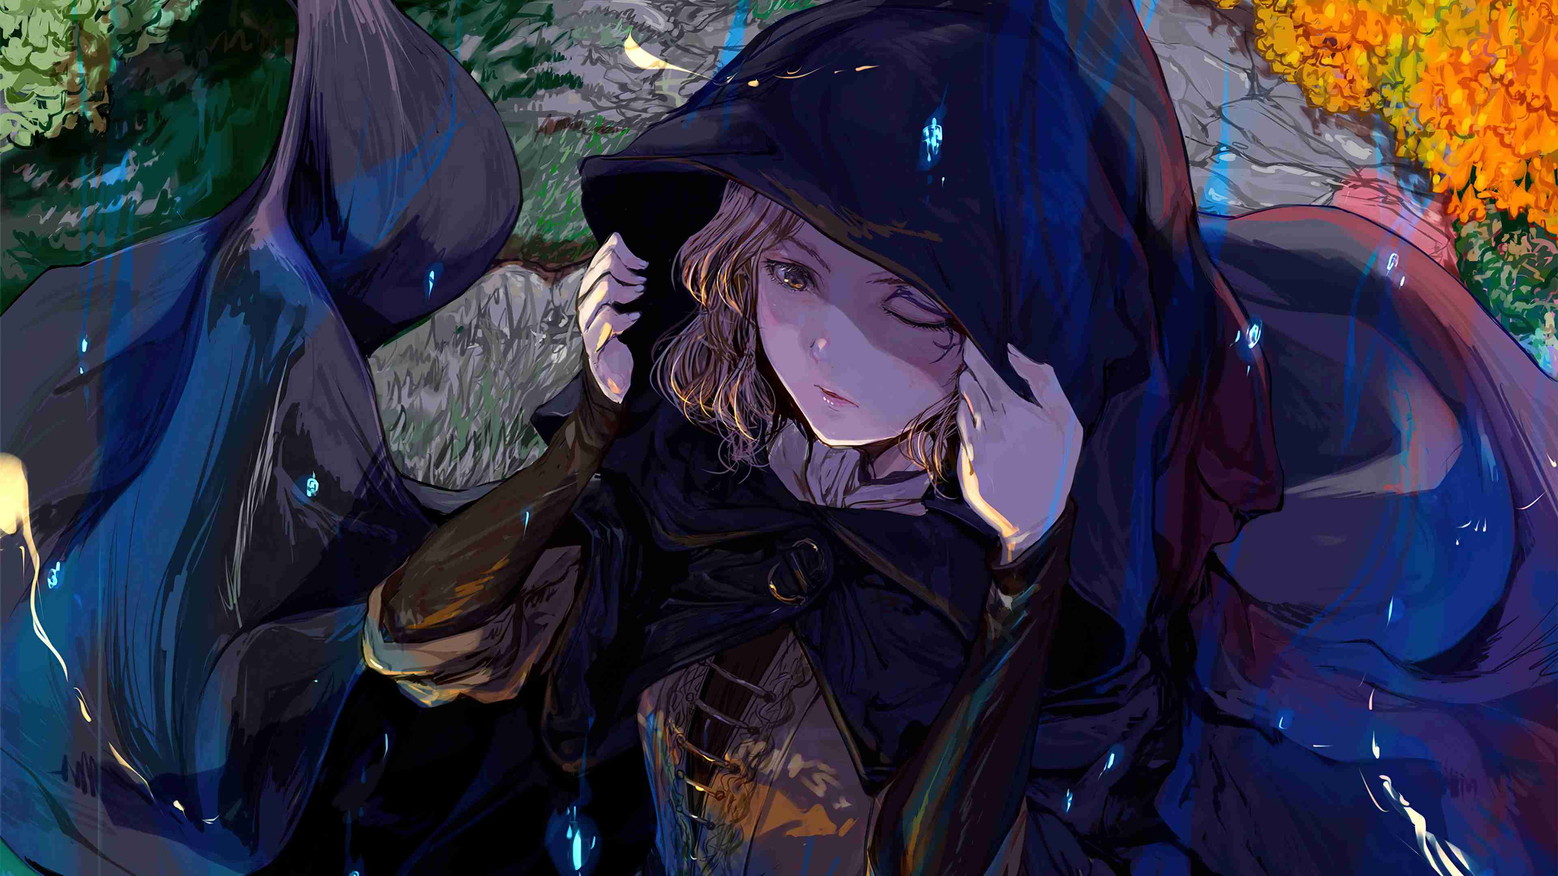
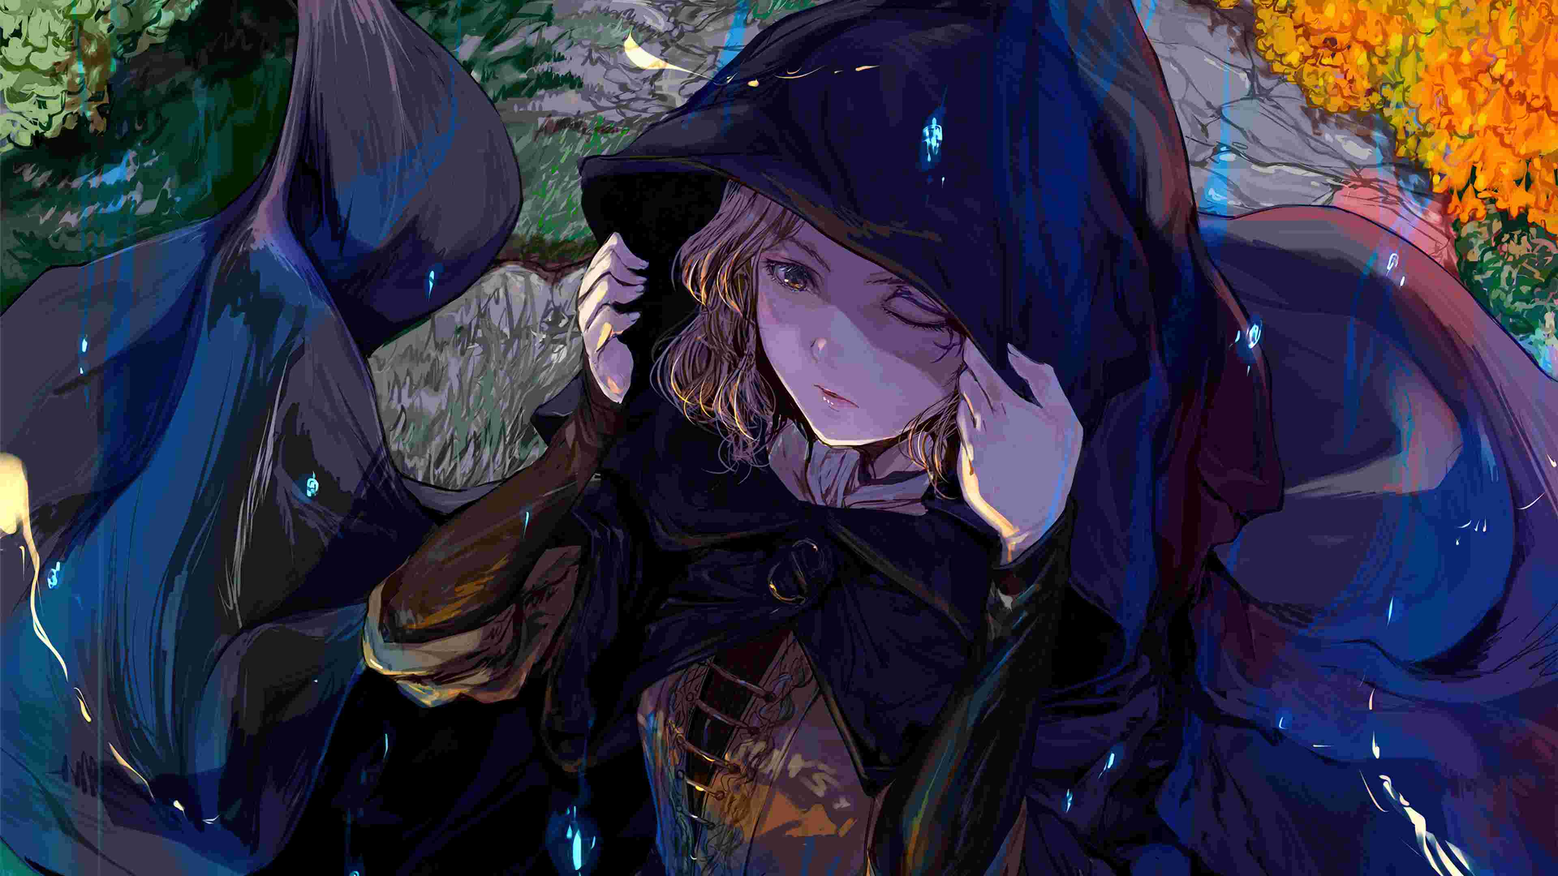
Site updated: 2022-10-22 17:04:35

diff --git a/sw.js b/sw.js
@@ -10,7 +10,7 @@
 
 'use strict';
 
-var precacheConfig = [["/2022/10/11/MySQL安装/index.html","179265e4bfa5f142176c2ea2693af074"],["/2022/10/11/MySQL操作/index.html","25e568b89453665ae781a5f2dfbe4c2f"],["/2022/10/19/HTML5/index.html","0017fb4c67c9fa664d5f66dfb83a613a"],["/2022/10/22/CSS学习/index.html","a39f97c27138d89c3b1453aa0768e220"],["/about/index.html","8502727334ac681946658a177c0e62c2"],["/archives/2022/10/index.html","a4bdcfa0c750d61e84c567a3862261ed"],["/archives/2022/index.html","e2b3b79b2b06ebc4786a04903f9dec2f"],["/archives/index.html","2c741788c56961361d8422bbb4b33f46"],["/categories/index.html","ebb0fa4e85c87ef2e5622d9c6c981ffc"],["/categories/web前端/index.html","be249253a40ec8923ef5048319b6070a"],["/categories/数据库/index.html","d64bc85b31de477e81b1d14cf91d3c79"],["/css/FiraCode.css","5721e9035217ed14ca819e025db6bc74"],["/css/barrager.css","c3faa9826b45bdd738e401f0a9c4192f"],["/css/bb.css","a13497fcf67377687248cad43633417c"],["/css/dark.css","fa94e3961b7b3c3adec97d8e7558f33c"],["/css/flesx.css","c883b907e029239a4adbdcfb33d62990"],["/css/gallery.css","995e260b3cd2e85de9f9892b11239361"],["/css/gitment.css","dcd15488193705c273213e72e5ebb7ce"],["/css/indexcover.css","56ef28cea24faa1991bf9f599e24187c"],["/css/loading.css","2103ed59c0acf36d30231c3403cafb4a"],["/css/matery.css","732ec12d71a861415c1c405c106a492b"],["/css/my-gitalk.css","3de42b649a2216cc9bbee350cde6a7e0"],["/css/my.css","c4ad2103f0a537e360bd16650e547b22"],["/css/post.css","16f5d4d84047b4390fddbcac1df17b22"],["/css/reward.css","8c7d18c8fa6b0e82cc75a867e7e533da"],["/favicon.png","bb44feefd80d6541316f0a21cb5cb824"],["/images/MySQLdownload.png","db6c0387d9a82be60b1f77a212f72017"],["/images/MySQL的路径.png","f2f83bb82bbd8b0de86126d12d930545"],["/images/新建MySQL环境变量.png","9cc24ce7c50c1a401644d220e5fafbe4"],["/images/无序列表.png","80c06739603280bf4d6dbc0b11744522"],["/images/有序列表.png","e320ee4c4820ddc9b21673556fda4340"],["/images/注册MySQL.png","4cbe376be67b49487f93c45cae786b56"],["/images/添加path.png","b4e3d6ffcfa4ea3cc3dd06b3e30e7ab1"],["/images/生成data.png","d0289c94768f58ce99c4200d10287c69"],["/images/配置MySQL环境变量.png","878a79d52deb5d55ed9c269abe84871a"],["/index.html","d36d70078d3324f18c876e1ed6acbf65"],["/js/canvas_moving.js","d41d8cd98f00b204e9800998ecf8427e"],["/js/crypto-js.js","60ab5dbd46dfa34dfef3c1548a22a978"],["/js/gallery-encrypt.js","84a2c90b15a9313ca9a29ef49e70ba3d"],["/js/jquery.barrager.js","1c84c8e84cd2f94bdb222c75f0638bb6"],["/js/matery.js","9f67a1c1ca204dd3257ba7cd883d77fb"],["/js/search.js","7eca48f0950d5e0a2e04b65964c34d2f"],["/libs/animate/animate.min.css","178b651958ceff556cbc5f355e08bbf1"],["/libs/aos/aos.css","04140612fb8b418cda27dee6ecf61042"],["/libs/aos/aos.js","9cc58a148779953a5ebe9360d6cf978c"],["/libs/aplayer/APlayer.min.css","fbe994054426fadb2dff69d824c5c67a"],["/libs/aplayer/APlayer.min.js","8f1017e7a73737e631ff95fa51e4e7d7"],["/libs/aplayer/Meting.min.js","c0e989e618a2c6f90f59fa1822941d75"],["/libs/awesome/css/all.css","59e626fe99d31dfded1e674a4089e0c8"],["/libs/awesome/css/all.min.css","8ef777107c4620d4ddd4f8c4bb14a36c"],["/libs/awesome/webfonts/fa-brands-400.ttf","3c90ddcce4c5c666e642e5b6ae53ede6"],["/libs/awesome/webfonts/fa-brands-400.woff2","5531dd3a7705ec68a6c5f5d02b25da6f"],["/libs/awesome/webfonts/fa-regular-400.ttf","02acddafdebd72be23b03798c86f2fec"],["/libs/awesome/webfonts/fa-regular-400.woff2","e42bcafcb7cc5002daa805140064bf40"],["/libs/awesome/webfonts/fa-solid-900.ttf","a59a3077d72245429c95c29dfe119546"],["/libs/awesome/webfonts/fa-solid-900.woff2","be4dccbe54eea47a0ad5d7bb60a3c17d"],["/libs/awesome/webfonts/fa-v4compatibility.ttf","6334955791896af71300ae5c46e8fb08"],["/libs/awesome/webfonts/fa-v4compatibility.woff2","eca6332a7e5060488f5fb896747fe50a"],["/libs/background/canvas-nest.js","a62fd97db8d4bce3a5e30406831e398d"],["/libs/background/ribbon-dynamic.js","eb6e9d5f62d717fa62445227883dc7b7"],["/libs/background/ribbon-refresh.min.js","6692e63df52b5230e673fc0a3aea5534"],["/libs/background/ribbon.min.js","52d83827dd2784a3d41b65694a6534e5"],["/libs/codeBlock/codeBlockFuction.js","1f379c32001349805cb987371cfccd1a"],["/libs/codeBlock/codeCopy.js","efa20c294ac279ca9c5a55e4299b80be"],["/libs/codeBlock/codeLang.js","dc4533be151964237f2a0006db27e5fa"],["/libs/codeBlock/codeShrink.js","ae277c5d8f8336fce64f89203b926d19"],["/libs/cryptojs/crypto-js.min.js","a39fc84fa7659e1d898bbcddf20aa989"],["/libs/dplayer/DPlayer.min.css","31ac9b1a5a7f018dcc9a0e0f66261c08"],["/libs/dplayer/DPlayer.min.js","472552604f19815d0a634bd3d953171e"],["/libs/echarts/echarts.min.js","b4af19a834bf7cd6435dd8e1ad24cc90"],["/libs/fancybox/fancybox.js","49a6b4d019a934bcf83f0c397eba82d8"],["/libs/fancybox/jquery.fancybox.css","a2d42584292f64c5827e8b67b1b38726"],["/libs/gitalk/gitalk.css","8476031a633732dff9875feae0890070"],["/libs/gitalk/gitalk.min.js","7152eaccbb4bfa6333e19971960018e9"],["/libs/gitment/gitment-default.css","46f304e637384c546f25b5ad90f0fe5a"],["/libs/gitment/gitment.js","2d64177544df22f08ccc1c86fc181e0e"],["/libs/instantpage/instantpage.js","47fcedd7bba8eb1ad3b035c8727f06b5"],["/libs/jqcloud/jqcloud-1.0.4.min.js","b5b4d1002ff256e9bed2b339f572dedc"],["/libs/jqcloud/jqcloud.css","978ed746c5673321fba8401ed6a536ac"],["/libs/jquery/jquery-3.6.0.min.js","8fb8fee4fcc3cc86ff6c724154c49c42"],["/libs/justifiedGallery/justifiedGallery.min.css","0eb3894f1fb48fbc54fbd2072b4372f8"],["/libs/justifiedGallery/justifiedGallery.min.js","f12e15ba020d049ba166af44960051c9"],["/libs/lightGallery/css/lightgallery.min.css","0ecaf59cd1b7e19f2a7b34683d32068c"],["/libs/lightGallery/fonts/lg.svg","e2ec05977cb4b0a18bbcb7f607b79620"],["/libs/lightGallery/fonts/lg.ttf","f4292655f93dd12d9b8e4fc067ef2489"],["/libs/lightGallery/fonts/lg.woff","1fbfd4bcffccb94e8e8a5ea70616b296"],["/libs/lightGallery/img/loading.gif","bbdac9cda255c54bfd809110aff87898"],["/libs/lightGallery/img/video-play.png","d672259b56b5dd1abdff3a98d87864e8"],["/libs/lightGallery/img/vimeo-play.png","a951123e4f7cb5d037a6a872f001a8af"],["/libs/lightGallery/img/youtube-play.png","6267452d4f9c32c7550cec6587f985d3"],["/libs/lightGallery/js/lightgallery-all.min.js","b4705ab663a9555d29fa69a3cf6bec0b"],["/libs/masonry/masonry.pkgd.min.js","520e46df77727aaf3d5e799ef241be02"],["/libs/materialize/materialize.min.css","3a5681d6939e48ba5038fbf8f9f244a2"],["/libs/materialize/materialize.min.js","87d84bf8b4cc051c16092d27b1a7d9b3"],["/libs/mermaid/mermaid.js","f3687bf99ec4a8b6608d45d2809eab00"],["/libs/mermaid/mermaid.min.css","5e9cbdf9d18097fc1d4649670a5be633"],["/libs/mermaid/mermaid.min.js","ded87f243544923cd210927ca94ab13c"],["/libs/minivaline/MiniValine.js","bb0f8ed46503472ce77575f9db9dda93"],["/libs/others/TencentCaptcha.js","628af9af35fd7579c1b5f481f7a77aa0"],["/libs/others/buble.js","2e0024a9ce8eb997e7ed4a1b6e50053d"],["/libs/others/busuanzi.pure.mini.js","4c9a89414b97bb2053ccc7cb83c83b6e"],["/libs/others/clicklove.js","6a3861c11c04010dd4de27c162cb8a83"],["/libs/others/popupText.js","1c58c6da78090863189a9059d3370488"],["/libs/others/sakura-half.js","d1cccaec887352d5fff341f873ee0210"],["/libs/others/sakura-reduce.js","c86b1fe1a4f144ec4784b13b17821869"],["/libs/others/sakura-small.js","d9a110e05f736ef48c93f05b45edd397"],["/libs/others/sakura.js","cb6251075cc14487276119b508cd68bf"],["/libs/others/snow.js","f320c79941e71f888b78084d8041e8d9"],["/libs/others/star.js","27343eec730d8dc904e90c898ee84824"],["/libs/prism/prism.min.css","4b60600e667d6e9c12c09847efad9212"],["/libs/prism/prism.min.js","c5836472f4637c9b4ab02b6f4eaf0bae"],["/libs/scrollprogress/scrollProgress.min.js","63212ebfb10736224d44bcda8a155278"],["/libs/share/css/share.min.css","a5d28161d70468ec2378da676284a34f"],["/libs/share/fonts/iconfont.eot","e83ffaa95463f987abe5db5bbbe303cc"],["/libs/share/fonts/iconfont.svg","6b3cbfae255ab1f2c1e8e8bfc80754d4"],["/libs/share/fonts/iconfont.ttf","9ac2cc5ae8616eb50c033525dc14a5eb"],["/libs/share/fonts/iconfont.woff","bf0fc2ec6e2a614635e0ab6e81d059ef"],["/libs/share/js/jquery.share.min.js","044c903516dd20036471d65d5269821c"],["/libs/share/js/social-share.min.js","7d8197222dcdbe0e7e645a605bf76851"],["/libs/tocbot/tocbot.css","e8f0173e7c5216e5359587a88a570b77"],["/libs/tocbot/tocbot.min.js","4d7b1dfb31f74b6d0701cf3120933597"],["/libs/twikoo/twikoo.all.min.js","feefb4c63d8eea58211ef6113d5ef163"],["/libs/typed/typed.js","477fdd6405150093080290d2e8153eac"],["/libs/valine/Valine.min.js","331401bbfbdcceabffa29e3507e00be4"],["/libs/valine/av-min.js","b3a0738d1144660f94741da963c1d268"],["/libs/waline/Waline.min.js","ed6cbbe9d1e40233030635398ed386aa"],["/live2dw/lib/L2Dwidget.0.min.js","32973883fcac0a9ae6cc79c0ea25fda2"],["/live2dw/lib/L2Dwidget.min.js","094cbace49a39548bed64abff5988b05"],["/medias/avatar.jpg","415de4d5d462d6bd318c09824113e54e"],["/medias/banner/0.jpg","451bd6b89304a8e5c8eb712c5f83263d"],["/medias/banner/1.jpg","9269002d0873d0e0fe9c9384507a0f81"],["/medias/banner/2.jpg","9d5259c1c229c7b2a7ea813b5246ce26"],["/medias/banner/3.jpg","445dcbe7944b2e3bd5d53b7bea04a1c8"],["/medias/banner/4.jpg","9e2e5ff9fb783c78c7bad47041787097"],["/medias/banner/5.jpg","a68e5919bf5c4467f47fa43b7698b12c"],["/medias/banner/6.jpg","a939c8c257fad2cf32ff4db949f6d578"],["/medias/barrager/0.png","f5d8318197ffd7ce9aacf308bf186c5e"],["/medias/barrager/1.png","ea244312d1bf53680470f3da4d308bb4"],["/medias/barrager/2.png","50e265a8acfea4b3bafd407dff4ceaba"],["/medias/barrager/close.png","ab45ca050318e57b6559bb3503bc19a1"],["/medias/comment_bg.png","04208f25e34b8f29f072efbb2e212c86"],["/medias/cover.jpg","1253d8cf7abf8e92af47bda2bf61bd84"],["/medias/featureimages/0.jpg","f751cba3a4cd6381611bb4ec97d35e77"],["/medias/featureimages/1.jpg","d440f1a8faa3af050511b79ae30a10b0"],["/medias/featureimages/10.jpg","daaa0bfde5bade9fd47a9828a89c1044"],["/medias/featureimages/11.jpg","c613fbd6f7fadb8e65fdae620d89d277"],["/medias/featureimages/12.jpg","df9abf1fa933cee751d211828c35e4f5"],["/medias/featureimages/13.jpg","677c90f32232dd162b9c504ff176b100"],["/medias/featureimages/14.jpg","891ea5f9186f889adef7b215d9be9948"],["/medias/featureimages/15.jpg","3cf1acc3d317690beae0520a1e606b30"],["/medias/featureimages/16.jpg","403a5973092edf7b1fc9cfb809ed4b05"],["/medias/featureimages/17.jpg","a88c2a1cc175f75b8b60f3224026b4de"],["/medias/featureimages/18.jpg","d8104647c594f21438cbc17331c57025"],["/medias/featureimages/19.jpg","86258814e4374b85adac9bd8235ad110"],["/medias/featureimages/2.jpg","d2f7104d393ee322de0cba7313eddf74"],["/medias/featureimages/20.jpg","0ec7a7cc344f3d47dbc556ea312a365f"],["/medias/featureimages/21.jpg","7202402f259237ea1f3f6bb82d208888"],["/medias/featureimages/22.jpg","6b1b1da789eecd376a5e6843314f26ad"],["/medias/featureimages/23.jpg","95ea042be75c28794ddca649388ad3c7"],["/medias/featureimages/3.jpg","afcee76cc47ff729c484202e201cafd4"],["/medias/featureimages/4.jpg","ddd80ccca8d84079255bbfbf4244debd"],["/medias/featureimages/5.jpg","eeb46fbd8f9c6999a2f3fbdcf34e8b3e"],["/medias/featureimages/6.jpg","ae4562052cf07bc1912d5fd90e00b2ce"],["/medias/featureimages/7.jpg","af5b8a1b0fbab59e68a69005b2a0eeb7"],["/medias/featureimages/8.jpg","6d9136c0bf542e136dd70a6a7c97521b"],["/medias/featureimages/9.jpg","52e8f9aca543d2d4838c14bce33ecee1"],["/medias/icp.png","60aa047315ba11596d9f954900c86fdb"],["/medias/images/01.jpg","df3a6be5078170d97b0fa7af440c00d5"],["/medias/images/02.jpg","e48d5fab83ae2f90e2e6f0eef22ec85c"],["/medias/images/03.jpg","01d3b8abfc97d822ef159033b3cec89f"],["/medias/logo.png","6fd306e0fb239e42ec8f82793e6ae6ee"],["/medias/reward/alipay.jpg","04870d77ea3c0385dca3679c36fca0fa"],["/medias/reward/wechat.png","643f8e9c3d85731ada4b20db1924fdc9"],["/sw-register.js","c5967dceaf83e5f642dfd6b87566afb7"],["/tags/CSS/index.html","5ce146be953233c14167e767602d9911"],["/tags/MySQL/index.html","f364cfb79c53c703d3905af1ba5220a7"],["/tags/html/index.html","f598380681c0c15ddcf4551607d30749"],["/tags/index.html","47232b221da0b27a0548e8aacfb61d92"]];
+var precacheConfig = [["/2022/10/11/MySQL安装/index.html","179265e4bfa5f142176c2ea2693af074"],["/2022/10/11/MySQL操作/index.html","25e568b89453665ae781a5f2dfbe4c2f"],["/2022/10/19/HTML5/index.html","0017fb4c67c9fa664d5f66dfb83a613a"],["/2022/10/22/CSS学习/index.html","a39f97c27138d89c3b1453aa0768e220"],["/about/index.html","8502727334ac681946658a177c0e62c2"],["/archives/2022/10/index.html","a4bdcfa0c750d61e84c567a3862261ed"],["/archives/2022/index.html","e2b3b79b2b06ebc4786a04903f9dec2f"],["/archives/index.html","2c741788c56961361d8422bbb4b33f46"],["/categories/index.html","ebb0fa4e85c87ef2e5622d9c6c981ffc"],["/categories/web前端/index.html","be249253a40ec8923ef5048319b6070a"],["/categories/数据库/index.html","d64bc85b31de477e81b1d14cf91d3c79"],["/css/FiraCode.css","5721e9035217ed14ca819e025db6bc74"],["/css/barrager.css","c3faa9826b45bdd738e401f0a9c4192f"],["/css/bb.css","a13497fcf67377687248cad43633417c"],["/css/dark.css","fa94e3961b7b3c3adec97d8e7558f33c"],["/css/flesx.css","c883b907e029239a4adbdcfb33d62990"],["/css/gallery.css","995e260b3cd2e85de9f9892b11239361"],["/css/gitment.css","dcd15488193705c273213e72e5ebb7ce"],["/css/indexcover.css","56ef28cea24faa1991bf9f599e24187c"],["/css/loading.css","2103ed59c0acf36d30231c3403cafb4a"],["/css/matery.css","732ec12d71a861415c1c405c106a492b"],["/css/my-gitalk.css","3de42b649a2216cc9bbee350cde6a7e0"],["/css/my.css","c4ad2103f0a537e360bd16650e547b22"],["/css/post.css","16f5d4d84047b4390fddbcac1df17b22"],["/css/reward.css","8c7d18c8fa6b0e82cc75a867e7e533da"],["/favicon.png","bb44feefd80d6541316f0a21cb5cb824"],["/images/MySQLdownload.png","db6c0387d9a82be60b1f77a212f72017"],["/images/MySQL的路径.png","f2f83bb82bbd8b0de86126d12d930545"],["/images/新建MySQL环境变量.png","9cc24ce7c50c1a401644d220e5fafbe4"],["/images/无序列表.png","80c06739603280bf4d6dbc0b11744522"],["/images/有序列表.png","e320ee4c4820ddc9b21673556fda4340"],["/images/注册MySQL.png","4cbe376be67b49487f93c45cae786b56"],["/images/添加path.png","b4e3d6ffcfa4ea3cc3dd06b3e30e7ab1"],["/images/生成data.png","d0289c94768f58ce99c4200d10287c69"],["/images/配置MySQL环境变量.png","878a79d52deb5d55ed9c269abe84871a"],["/index.html","d36d70078d3324f18c876e1ed6acbf65"],["/js/canvas_moving.js","d41d8cd98f00b204e9800998ecf8427e"],["/js/crypto-js.js","60ab5dbd46dfa34dfef3c1548a22a978"],["/js/gallery-encrypt.js","84a2c90b15a9313ca9a29ef49e70ba3d"],["/js/jquery.barrager.js","1c84c8e84cd2f94bdb222c75f0638bb6"],["/js/matery.js","9f67a1c1ca204dd3257ba7cd883d77fb"],["/js/search.js","7eca48f0950d5e0a2e04b65964c34d2f"],["/libs/animate/animate.min.css","178b651958ceff556cbc5f355e08bbf1"],["/libs/aos/aos.css","04140612fb8b418cda27dee6ecf61042"],["/libs/aos/aos.js","9cc58a148779953a5ebe9360d6cf978c"],["/libs/aplayer/APlayer.min.css","fbe994054426fadb2dff69d824c5c67a"],["/libs/aplayer/APlayer.min.js","8f1017e7a73737e631ff95fa51e4e7d7"],["/libs/aplayer/Meting.min.js","c0e989e618a2c6f90f59fa1822941d75"],["/libs/awesome/css/all.css","59e626fe99d31dfded1e674a4089e0c8"],["/libs/awesome/css/all.min.css","8ef777107c4620d4ddd4f8c4bb14a36c"],["/libs/awesome/webfonts/fa-brands-400.ttf","3c90ddcce4c5c666e642e5b6ae53ede6"],["/libs/awesome/webfonts/fa-brands-400.woff2","5531dd3a7705ec68a6c5f5d02b25da6f"],["/libs/awesome/webfonts/fa-regular-400.ttf","02acddafdebd72be23b03798c86f2fec"],["/libs/awesome/webfonts/fa-regular-400.woff2","e42bcafcb7cc5002daa805140064bf40"],["/libs/awesome/webfonts/fa-solid-900.ttf","a59a3077d72245429c95c29dfe119546"],["/libs/awesome/webfonts/fa-solid-900.woff2","be4dccbe54eea47a0ad5d7bb60a3c17d"],["/libs/awesome/webfonts/fa-v4compatibility.ttf","6334955791896af71300ae5c46e8fb08"],["/libs/awesome/webfonts/fa-v4compatibility.woff2","eca6332a7e5060488f5fb896747fe50a"],["/libs/background/canvas-nest.js","a62fd97db8d4bce3a5e30406831e398d"],["/libs/background/ribbon-dynamic.js","eb6e9d5f62d717fa62445227883dc7b7"],["/libs/background/ribbon-refresh.min.js","6692e63df52b5230e673fc0a3aea5534"],["/libs/background/ribbon.min.js","52d83827dd2784a3d41b65694a6534e5"],["/libs/codeBlock/codeBlockFuction.js","1f379c32001349805cb987371cfccd1a"],["/libs/codeBlock/codeCopy.js","efa20c294ac279ca9c5a55e4299b80be"],["/libs/codeBlock/codeLang.js","dc4533be151964237f2a0006db27e5fa"],["/libs/codeBlock/codeShrink.js","ae277c5d8f8336fce64f89203b926d19"],["/libs/cryptojs/crypto-js.min.js","a39fc84fa7659e1d898bbcddf20aa989"],["/libs/dplayer/DPlayer.min.css","31ac9b1a5a7f018dcc9a0e0f66261c08"],["/libs/dplayer/DPlayer.min.js","472552604f19815d0a634bd3d953171e"],["/libs/echarts/echarts.min.js","b4af19a834bf7cd6435dd8e1ad24cc90"],["/libs/fancybox/fancybox.js","49a6b4d019a934bcf83f0c397eba82d8"],["/libs/fancybox/jquery.fancybox.css","a2d42584292f64c5827e8b67b1b38726"],["/libs/gitalk/gitalk.css","8476031a633732dff9875feae0890070"],["/libs/gitalk/gitalk.min.js","7152eaccbb4bfa6333e19971960018e9"],["/libs/gitment/gitment-default.css","46f304e637384c546f25b5ad90f0fe5a"],["/libs/gitment/gitment.js","2d64177544df22f08ccc1c86fc181e0e"],["/libs/instantpage/instantpage.js","47fcedd7bba8eb1ad3b035c8727f06b5"],["/libs/jqcloud/jqcloud-1.0.4.min.js","b5b4d1002ff256e9bed2b339f572dedc"],["/libs/jqcloud/jqcloud.css","978ed746c5673321fba8401ed6a536ac"],["/libs/jquery/jquery-3.6.0.min.js","8fb8fee4fcc3cc86ff6c724154c49c42"],["/libs/justifiedGallery/justifiedGallery.min.css","0eb3894f1fb48fbc54fbd2072b4372f8"],["/libs/justifiedGallery/justifiedGallery.min.js","f12e15ba020d049ba166af44960051c9"],["/libs/lightGallery/css/lightgallery.min.css","0ecaf59cd1b7e19f2a7b34683d32068c"],["/libs/lightGallery/fonts/lg.svg","e2ec05977cb4b0a18bbcb7f607b79620"],["/libs/lightGallery/fonts/lg.ttf","f4292655f93dd12d9b8e4fc067ef2489"],["/libs/lightGallery/fonts/lg.woff","1fbfd4bcffccb94e8e8a5ea70616b296"],["/libs/lightGallery/img/loading.gif","bbdac9cda255c54bfd809110aff87898"],["/libs/lightGallery/img/video-play.png","d672259b56b5dd1abdff3a98d87864e8"],["/libs/lightGallery/img/vimeo-play.png","a951123e4f7cb5d037a6a872f001a8af"],["/libs/lightGallery/img/youtube-play.png","6267452d4f9c32c7550cec6587f985d3"],["/libs/lightGallery/js/lightgallery-all.min.js","b4705ab663a9555d29fa69a3cf6bec0b"],["/libs/masonry/masonry.pkgd.min.js","520e46df77727aaf3d5e799ef241be02"],["/libs/materialize/materialize.min.css","3a5681d6939e48ba5038fbf8f9f244a2"],["/libs/materialize/materialize.min.js","87d84bf8b4cc051c16092d27b1a7d9b3"],["/libs/mermaid/mermaid.js","f3687bf99ec4a8b6608d45d2809eab00"],["/libs/mermaid/mermaid.min.css","5e9cbdf9d18097fc1d4649670a5be633"],["/libs/mermaid/mermaid.min.js","ded87f243544923cd210927ca94ab13c"],["/libs/minivaline/MiniValine.js","bb0f8ed46503472ce77575f9db9dda93"],["/libs/others/TencentCaptcha.js","628af9af35fd7579c1b5f481f7a77aa0"],["/libs/others/buble.js","2e0024a9ce8eb997e7ed4a1b6e50053d"],["/libs/others/busuanzi.pure.mini.js","4c9a89414b97bb2053ccc7cb83c83b6e"],["/libs/others/clicklove.js","6a3861c11c04010dd4de27c162cb8a83"],["/libs/others/popupText.js","1c58c6da78090863189a9059d3370488"],["/libs/others/sakura-half.js","d1cccaec887352d5fff341f873ee0210"],["/libs/others/sakura-reduce.js","c86b1fe1a4f144ec4784b13b17821869"],["/libs/others/sakura-small.js","d9a110e05f736ef48c93f05b45edd397"],["/libs/others/sakura.js","cb6251075cc14487276119b508cd68bf"],["/libs/others/snow.js","f320c79941e71f888b78084d8041e8d9"],["/libs/others/star.js","27343eec730d8dc904e90c898ee84824"],["/libs/prism/prism.min.css","4b60600e667d6e9c12c09847efad9212"],["/libs/prism/prism.min.js","c5836472f4637c9b4ab02b6f4eaf0bae"],["/libs/scrollprogress/scrollProgress.min.js","63212ebfb10736224d44bcda8a155278"],["/libs/share/css/share.min.css","a5d28161d70468ec2378da676284a34f"],["/libs/share/fonts/iconfont.eot","e83ffaa95463f987abe5db5bbbe303cc"],["/libs/share/fonts/iconfont.svg","6b3cbfae255ab1f2c1e8e8bfc80754d4"],["/libs/share/fonts/iconfont.ttf","9ac2cc5ae8616eb50c033525dc14a5eb"],["/libs/share/fonts/iconfont.woff","bf0fc2ec6e2a614635e0ab6e81d059ef"],["/libs/share/js/jquery.share.min.js","044c903516dd20036471d65d5269821c"],["/libs/share/js/social-share.min.js","7d8197222dcdbe0e7e645a605bf76851"],["/libs/tocbot/tocbot.css","e8f0173e7c5216e5359587a88a570b77"],["/libs/tocbot/tocbot.min.js","4d7b1dfb31f74b6d0701cf3120933597"],["/libs/twikoo/twikoo.all.min.js","feefb4c63d8eea58211ef6113d5ef163"],["/libs/typed/typed.js","477fdd6405150093080290d2e8153eac"],["/libs/valine/Valine.min.js","331401bbfbdcceabffa29e3507e00be4"],["/libs/valine/av-min.js","b3a0738d1144660f94741da963c1d268"],["/libs/waline/Waline.min.js","ed6cbbe9d1e40233030635398ed386aa"],["/live2dw/lib/L2Dwidget.0.min.js","32973883fcac0a9ae6cc79c0ea25fda2"],["/live2dw/lib/L2Dwidget.min.js","094cbace49a39548bed64abff5988b05"],["/medias/avatar.jpg","415de4d5d462d6bd318c09824113e54e"],["/medias/banner/0.jpg","fd61f8bba3896620625d32aff189d6cc"],["/medias/banner/1.jpg","9269002d0873d0e0fe9c9384507a0f81"],["/medias/banner/2.jpg","9d5259c1c229c7b2a7ea813b5246ce26"],["/medias/banner/3.jpg","445dcbe7944b2e3bd5d53b7bea04a1c8"],["/medias/banner/4.jpg","9e2e5ff9fb783c78c7bad47041787097"],["/medias/banner/5.jpg","8319a1b033ffa1ae31b757d16390e69e"],["/medias/banner/6.jpg","a939c8c257fad2cf32ff4db949f6d578"],["/medias/barrager/0.png","f5d8318197ffd7ce9aacf308bf186c5e"],["/medias/barrager/1.png","ea244312d1bf53680470f3da4d308bb4"],["/medias/barrager/2.png","50e265a8acfea4b3bafd407dff4ceaba"],["/medias/barrager/close.png","ab45ca050318e57b6559bb3503bc19a1"],["/medias/comment_bg.png","04208f25e34b8f29f072efbb2e212c86"],["/medias/cover.jpg","1253d8cf7abf8e92af47bda2bf61bd84"],["/medias/featureimages/0.jpg","f751cba3a4cd6381611bb4ec97d35e77"],["/medias/featureimages/1.jpg","d440f1a8faa3af050511b79ae30a10b0"],["/medias/featureimages/10.jpg","daaa0bfde5bade9fd47a9828a89c1044"],["/medias/featureimages/11.jpg","c613fbd6f7fadb8e65fdae620d89d277"],["/medias/featureimages/12.jpg","df9abf1fa933cee751d211828c35e4f5"],["/medias/featureimages/13.jpg","677c90f32232dd162b9c504ff176b100"],["/medias/featureimages/14.jpg","891ea5f9186f889adef7b215d9be9948"],["/medias/featureimages/15.jpg","3cf1acc3d317690beae0520a1e606b30"],["/medias/featureimages/16.jpg","403a5973092edf7b1fc9cfb809ed4b05"],["/medias/featureimages/17.jpg","a88c2a1cc175f75b8b60f3224026b4de"],["/medias/featureimages/18.jpg","d8104647c594f21438cbc17331c57025"],["/medias/featureimages/19.jpg","86258814e4374b85adac9bd8235ad110"],["/medias/featureimages/2.jpg","d2f7104d393ee322de0cba7313eddf74"],["/medias/featureimages/20.jpg","0ec7a7cc344f3d47dbc556ea312a365f"],["/medias/featureimages/21.jpg","7202402f259237ea1f3f6bb82d208888"],["/medias/featureimages/22.jpg","6b1b1da789eecd376a5e6843314f26ad"],["/medias/featureimages/23.jpg","95ea042be75c28794ddca649388ad3c7"],["/medias/featureimages/3.jpg","afcee76cc47ff729c484202e201cafd4"],["/medias/featureimages/4.jpg","ddd80ccca8d84079255bbfbf4244debd"],["/medias/featureimages/5.jpg","eeb46fbd8f9c6999a2f3fbdcf34e8b3e"],["/medias/featureimages/6.jpg","ae4562052cf07bc1912d5fd90e00b2ce"],["/medias/featureimages/7.jpg","af5b8a1b0fbab59e68a69005b2a0eeb7"],["/medias/featureimages/8.jpg","6d9136c0bf542e136dd70a6a7c97521b"],["/medias/featureimages/9.jpg","52e8f9aca543d2d4838c14bce33ecee1"],["/medias/icp.png","60aa047315ba11596d9f954900c86fdb"],["/medias/images/01.jpg","df3a6be5078170d97b0fa7af440c00d5"],["/medias/images/02.jpg","e48d5fab83ae2f90e2e6f0eef22ec85c"],["/medias/images/03.jpg","01d3b8abfc97d822ef159033b3cec89f"],["/medias/logo.png","6fd306e0fb239e42ec8f82793e6ae6ee"],["/medias/reward/alipay.jpg","04870d77ea3c0385dca3679c36fca0fa"],["/medias/reward/wechat.png","643f8e9c3d85731ada4b20db1924fdc9"],["/sw-register.js","9bae620c10786b6943659d228f8bcbff"],["/tags/CSS/index.html","5ce146be953233c14167e767602d9911"],["/tags/MySQL/index.html","f364cfb79c53c703d3905af1ba5220a7"],["/tags/html/index.html","f598380681c0c15ddcf4551607d30749"],["/tags/index.html","47232b221da0b27a0548e8aacfb61d92"]];
 var cacheName = 'sw-precache-v3--' + (self.registration ? self.registration.scope : '');
 var firstRegister = 1; // 默认1是首次安装SW， 0是SW更新
 

diff --git a/sw-register.js b/sw-register.js
@@ -1,1 +1,1 @@
-navigator.serviceWorker&&navigator.serviceWorker.register('/sw.js?v=20221022170152').then(function(){navigator.serviceWorker.addEventListener('message',function(a){if('sw.update'===a.data){let a=document.querySelector('meta[name=theme-color]'),b=document.createElement('div');a&&(a.content='#000'),b.innerHTML='<div><link rel="stylesheet" href="https://cdn.jsdelivr.net/gh/Colsrch/CDN/hexo-offline-popup.css"><div class="c-message animated animated-lento slideInRight"><i class=" c-message--icon c-message--success"></i><div class="el-notification__group"><h2 class="c-message__title">\u64cd\u4f5c\u901a\u77e5</h2><div class="el-notification__content">\u5df2\u66f4\u65b0\u6700\u65b0\u7248\u672c\uff08\u5237\u65b0\u751f\u6548\uff09</div><div class="c-message--close" onclick="location.reload()">×</div></div></div></div>',document.body.appendChild(b),setTimeout(function(){document.getElementById('app-refresh').className+=' app-refresh-show'},16)}})});
+navigator.serviceWorker&&navigator.serviceWorker.register('/sw.js?v=20221022170429').then(function(){navigator.serviceWorker.addEventListener('message',function(a){if('sw.update'===a.data){let a=document.querySelector('meta[name=theme-color]'),b=document.createElement('div');a&&(a.content='#000'),b.innerHTML='<div><link rel="stylesheet" href="https://cdn.jsdelivr.net/gh/Colsrch/CDN/hexo-offline-popup.css"><div class="c-message animated animated-lento slideInRight"><i class=" c-message--icon c-message--success"></i><div class="el-notification__group"><h2 class="c-message__title">\u64cd\u4f5c\u901a\u77e5</h2><div class="el-notification__content">\u5df2\u66f4\u65b0\u6700\u65b0\u7248\u672c\uff08\u5237\u65b0\u751f\u6548\uff09</div><div class="c-message--close" onclick="location.reload()">×</div></div></div></div>',document.body.appendChild(b),setTimeout(function(){document.getElementById('app-refresh').className+=' app-refresh-show'},16)}})});
